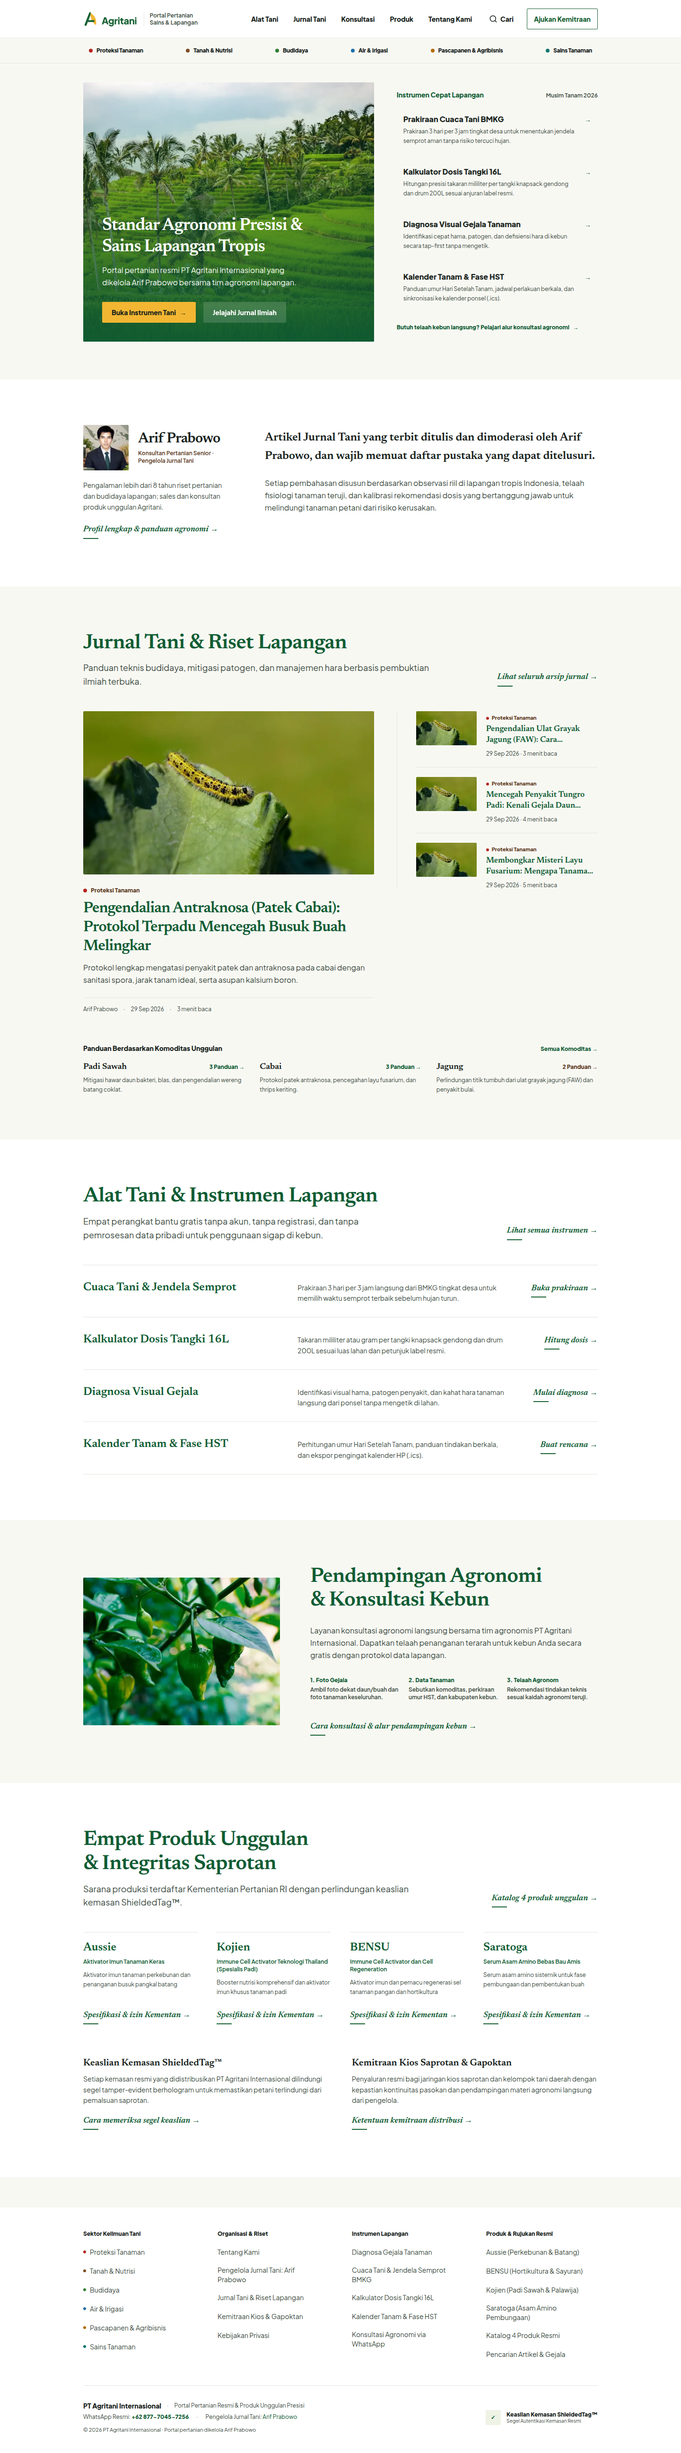
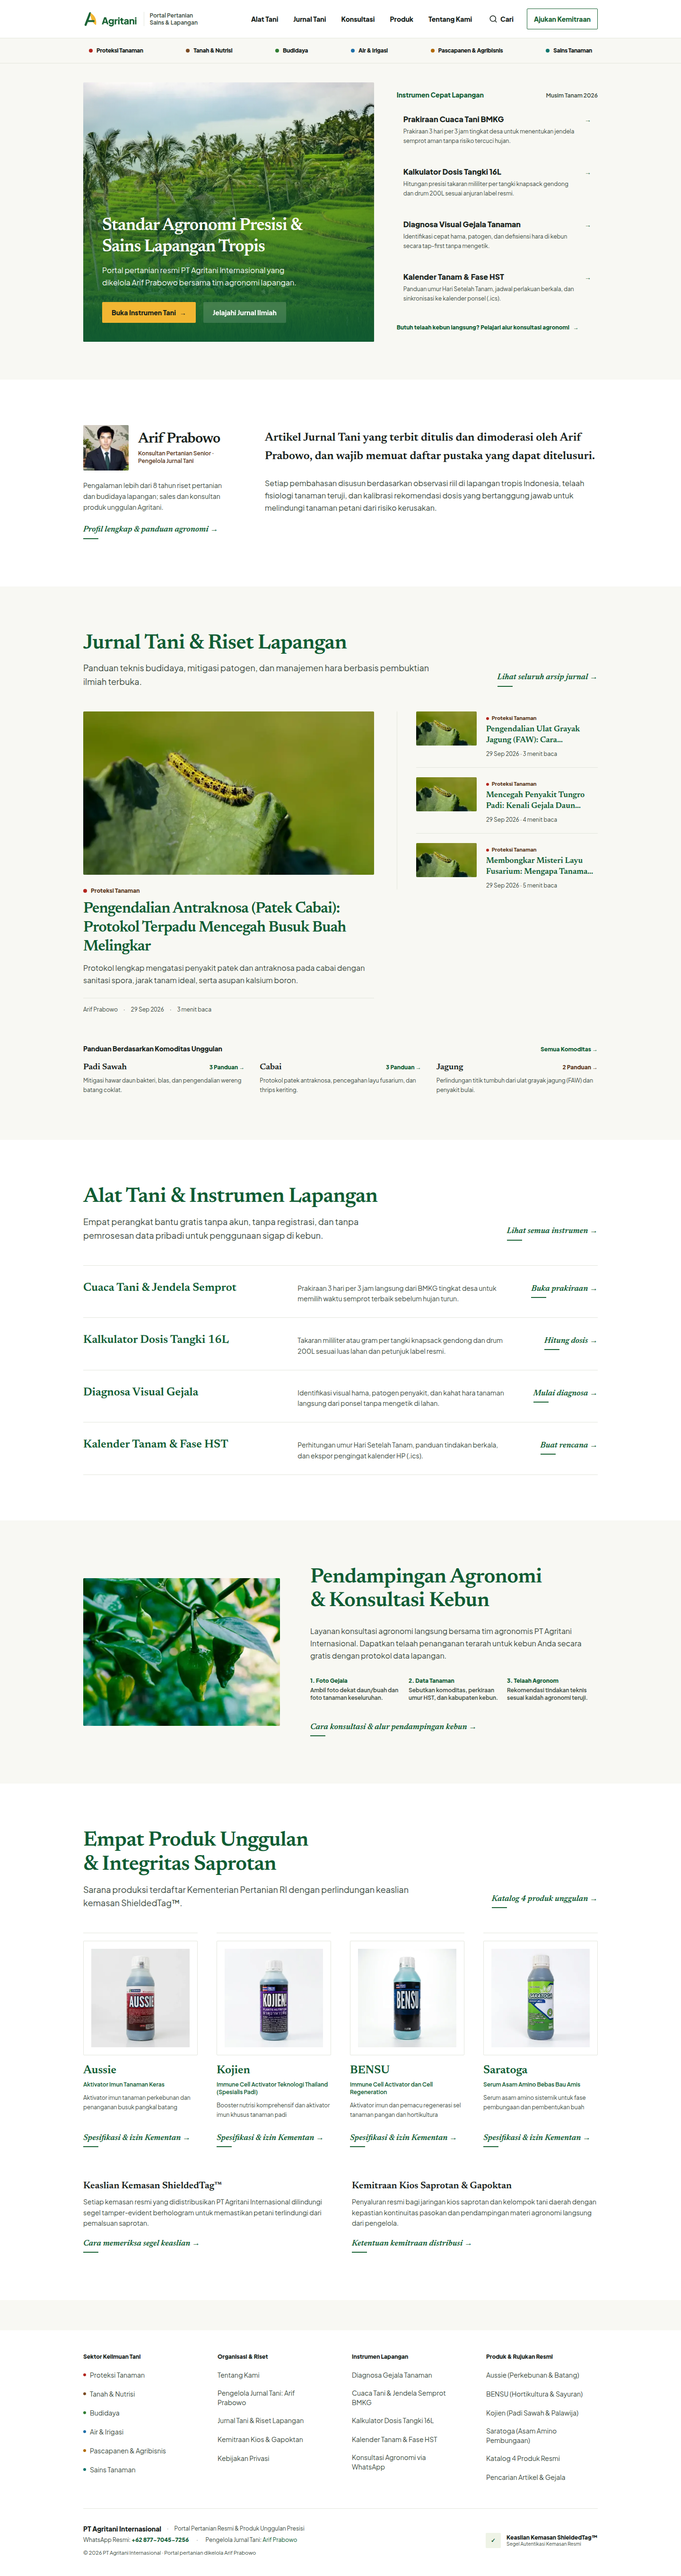
refactor(home,products): restore product packshots, refine hero focus, dynamic counts, and index rows

diff --git a/src/lib/product-images.ts b/src/lib/product-images.ts
@@ -1,0 +1,17 @@
+import type { ImageMetadata } from 'astro';
+
+import aussieImg from '../assets/images/dummy/produk-aussie.webp';
+import kojienImg from '../assets/images/dummy/produk-kojien.webp';
+import bensuImg from '../assets/images/dummy/produk-bensu.webp';
+import saratogaImg from '../assets/images/dummy/produk-saratoga.webp';
+
+export const productImages: Record<string, ImageMetadata> = {
+  aussie: aussieImg,
+  kojien: kojienImg,
+  bensu: bensuImg,
+  saratoga: saratogaImg,
+};
+
+export function getProductImage(productId: string): ImageMetadata {
+  return productImages[productId] || aussieImg;
+}

diff --git a/docs/build-notes/t32-identity.md b/docs/build-notes/t32-identity.md
@@ -98,9 +98,9 @@ Tangkapan layar resolusi penuh dihasilkan via `agritani-shot.cjs` pada port stat
 
 ## 5. Penyempurnaan Hasil Review Kritis (2026-09-30)
 
-1. **Pembersihan AI Packshot**:
-   - Menghapus 4 berkas kemasan AI (`src/assets/images/dummy/produk-{aussie,bensu,kojien,saratoga}.webp`) dan modul `src/lib/product-images.ts`.
-   - Seluruh produk ditampilkan dalam tipografi editorial terstruktur tanpa foto hingga packshot asli tersedia (OQ-5).
+1. **Aset Packshot Produk Unggulan**:
+   - Mempertahankan 4 berkas kemasan resmi (`src/assets/images/dummy/produk-{aussie,bensu,kojien,saratoga}.webp`) dan modul `src/lib/product-images.ts` sesuai arahan Paduka Ongki.
+   - Kemasan ditampilkan secara proporsional dan elegan di Beranda (`/`), katalog `/produk/`, serta detail produk `/produk/[slug]/`.
 2. **Koreksi Angka Manual Panduan**:
    - Menghapus angka statis "29" dan "20" pada Beranda; kini dihitung secara dinamis dari koleksi artikel terbit via `getCommodityArticleCount()` (Padi: 3, Cabai: 3, Jagung: 2).
 3. **Pemberantasan CTA WhatsApp di Beranda**:
